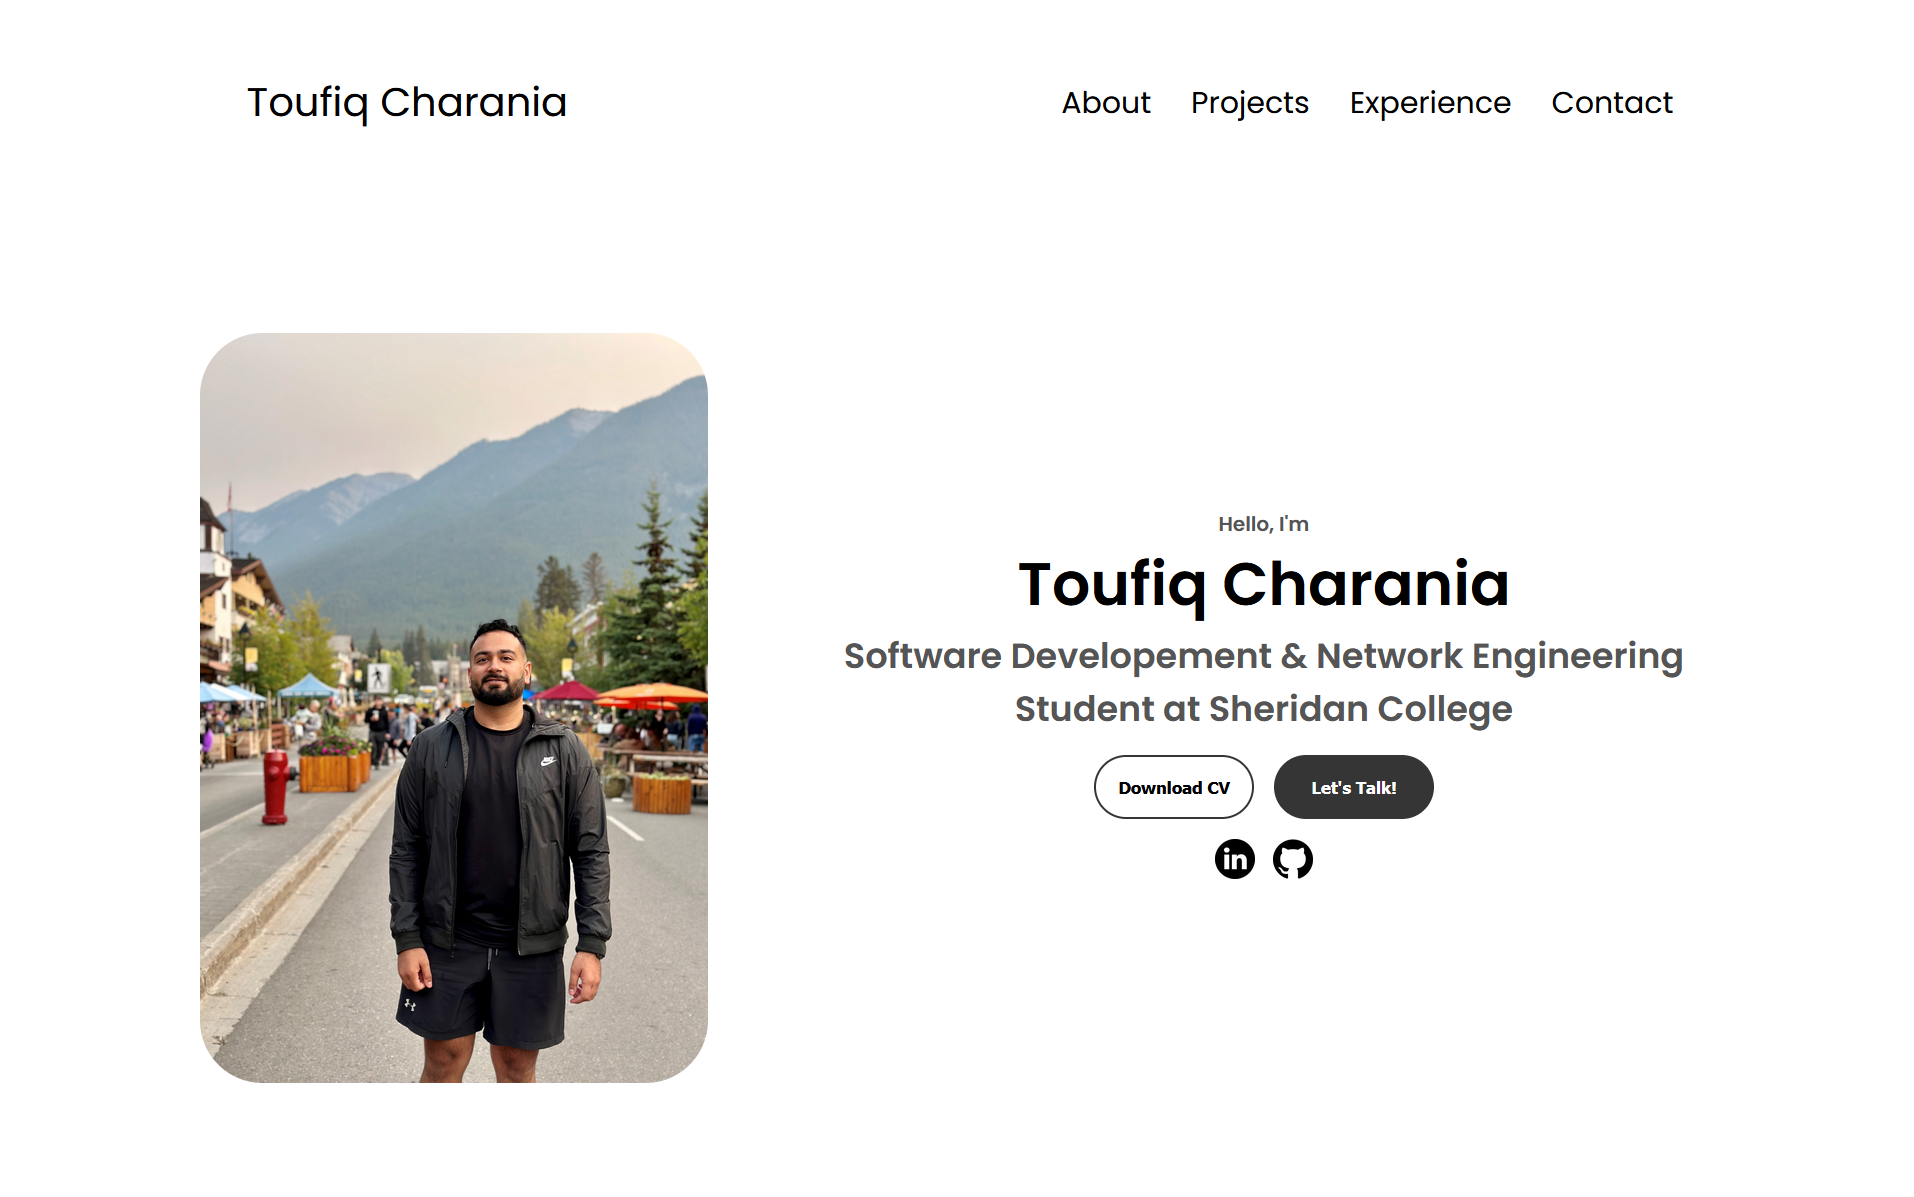
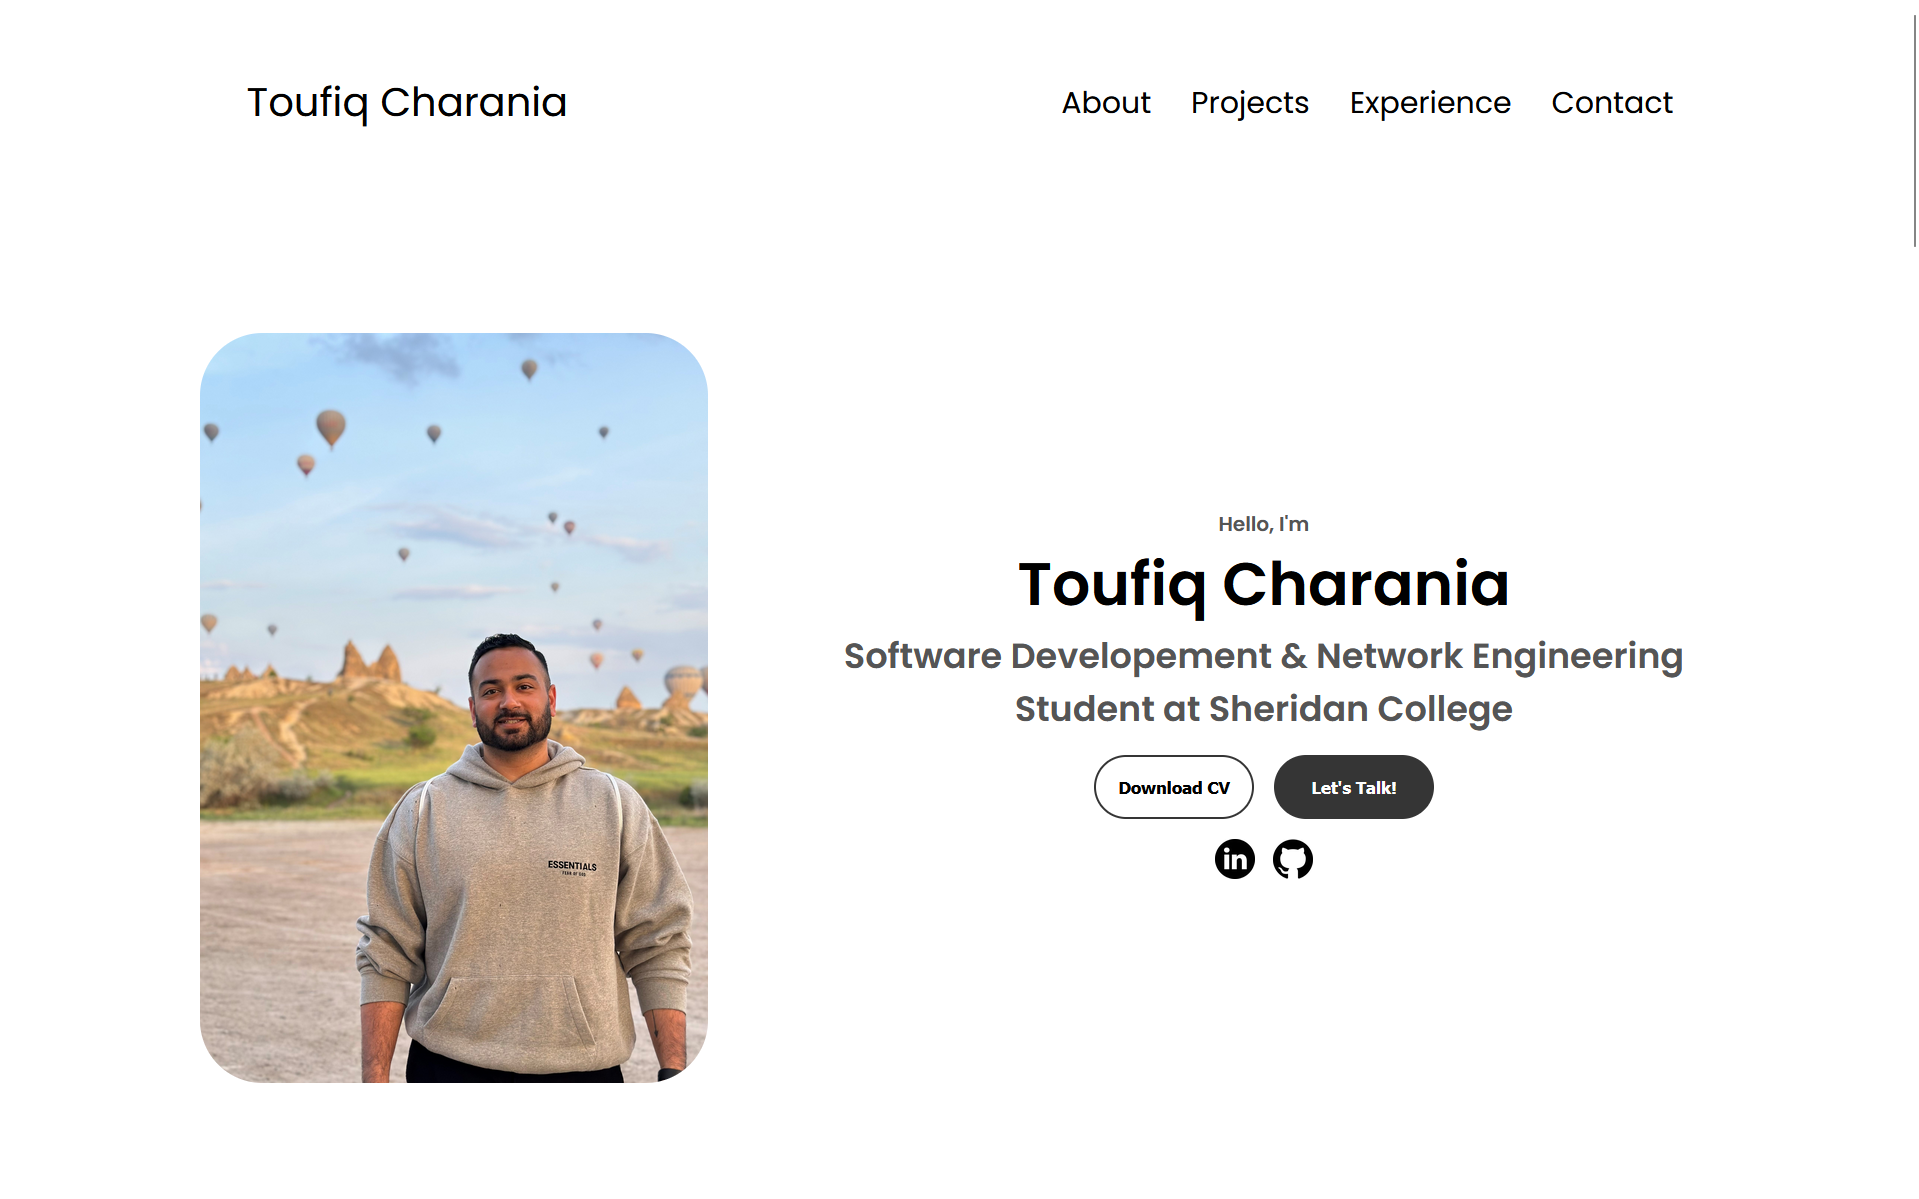
Completed Assignment 1.

diff --git a/src/app/projects/projects.component.html b/src/app/projects/projects.component.html
@@ -1,1 +1,69 @@
-<p>projects works!</p>
+<h3>Projects</h3>
+<!-- Placed material cards within a material tab group to achieve tabbed view for all five projects -->
+<mat-tab-group class="mat-tab-container">
+  <mat-tab label="Project 1" class="project-1">
+    <mat-card>
+      <mat-card-header>
+        <mat-card-subtitle>
+          <app-online-bookstore></app-online-bookstore>
+        </mat-card-subtitle>
+      </mat-card-header>
+      <mat-card-actions>
+        <button mat-button></button>
+      </mat-card-actions>
+      <mat-card-footer> </mat-card-footer>
+    </mat-card>
+  </mat-tab>
+  <mat-tab label="Project 2" class="project-2">
+    <mat-card>
+      <mat-card-header>
+        <mat-card-subtitle>
+          <app-portfolio-website></app-portfolio-website>
+        </mat-card-subtitle>
+      </mat-card-header>
+      <mat-card-actions>
+        <button mat-button></button>
+      </mat-card-actions>
+      <mat-card-footer> </mat-card-footer>
+    </mat-card>
+  </mat-tab>
+  <mat-tab label="Project 3" class="project-3">
+    <mat-card>
+      <mat-card-header>
+        <mat-card-subtitle>
+          <app-war-game></app-war-game>
+        </mat-card-subtitle>
+      </mat-card-header>
+      <mat-card-actions>
+        <button mat-button></button>
+      </mat-card-actions>
+      <mat-card-footer></mat-card-footer>
+    </mat-card>
+  </mat-tab>
+  <mat-tab label="Project 4" class="project-4">
+    <mat-card>
+      <mat-card-header>
+        <mat-card-subtitle>
+          <app-stock-portfolio></app-stock-portfolio>
+        </mat-card-subtitle>
+      </mat-card-header>
+      <mat-card-actions>
+        <button mat-button></button>
+      </mat-card-actions>
+      <mat-card-footer> </mat-card-footer>
+    </mat-card>
+    <mat-tab label="Project 5" class="project-5">
+      <mat-card>
+        <mat-card-header>
+          <mat-card-subtitle>
+            <app-todo-list></app-todo-list>
+          </mat-card-subtitle>
+        </mat-card-header>
+        <mat-card-actions>
+          <button mat-button></button>
+        </mat-card-actions>
+        <mat-card-footer></mat-card-footer>
+      </mat-card>
+    </mat-tab>
+  </mat-tab>
+</mat-tab-group>

diff --git a/src/styles.css b/src/styles.css
@@ -1,4 +1,85 @@
-/* You can add global styles to this file, and also import other style files */
+/* Global CSS */
 
-html, body { height: 100%; }
-body { margin: 0; font-family: Roboto, "Helvetica Neue", sans-serif; }
+html,
+body {
+  height: 100%;
+}
+
+body {
+  margin: 0;
+  font-family: Quicksand, "Helvetica Neue", sans-serif;
+}
+
+h1 {
+  font-size: 40px;
+  font-weight: 500;
+  text-align: center;
+  margin: 20px;
+  padding: 20px;
+}
+
+h2 {
+  font-size: 30px;
+  font-weight: 400;
+  text-align: center;
+}
+
+h3 {
+  font-size: 30px;
+  font-weight: 300;
+  text-align: center;
+}
+
+p {
+  font-size: 20px;
+  font-weight: 300;
+  text-align: center;
+}
+
+/* Header CSS */
+
+.header {
+  background-color: rgba(48, 37, 171, 0.5);
+  color: white;
+  text-align: center;
+  padding: 20px;
+}
+
+/* About Me CSS */
+
+.about-me-container {
+  /* Added margin to achieve separation between content. */
+  margin: 50px 50px;
+}
+
+/* Targetting the image inside the about-me-container to centre it. Reference: W3 Schools (https://www.w3schools.com/cssref/css3_pr_align-content.php) */
+.about-me-container img {
+  /* Changed img to block for it to take up the entire width of the page. */
+  display: block;
+  /* Margin auto places a margin on the left and right sides of the image. */
+  margin: auto;
+  /* Border radius achieves a circular image instead of a square. */
+  border-radius: 50%;
+}
+
+/* Projects CSS */
+
+.mat-tab-container {
+  /* Aligned items in the centre to prevent tabs from spanning full width of page. */
+  align-items: center;
+}
+
+/* Contact CSS */
+
+.contact-container {
+  background-color: rgba(193, 70, 178, 0.5);
+  text-align: center;
+  padding: 50px;
+}
+
+/* Footer CSS */
+
+.footer-container {
+  text-align: right;
+  margin-right: 10px;
+}

diff --git a/src/app/app.component.html b/src/app/app.component.html
@@ -1,47 +1,8 @@
-<link
-  href="https://fonts.googleapis.com/icon?family=Material+Icons"
-  rel="stylesheet"
-/>
-
+<!-- Components and mat-card added to app.component.html so that they get displayed on the webpage -->
 <app-header></app-header>
 <app-about></app-about>
-<mat-tab-group
-  mat-stretch-tabs
-  class="example-stretched-tabs mat-elevation-z4"
-  [ngStyle]="{ textAlign: 'center' }"
->
-  <app-projects>
-    <mat-tab label="online-bookstore">
-      <ng-template mat-tab-label="online-bookstore">
-        <span>Online Bookstore</span>
-      </ng-template>
-      <app-online-bookstore></app-online-bookstore>
-    </mat-tab>
-    <mat-tab label="portfolio-website">
-      <ng-template mat-tab-label="portfolio-website">
-        <span>Portfolio Website</span>
-      </ng-template>
-      <app-portfolio-website></app-portfolio-website>
-    </mat-tab>
-    <mat-tab label="war-game">
-      <ng-template mat-tab-label="war-game">
-        <span>War Game</span>
-      </ng-template>
-      <app-war-game></app-war-game>
-    </mat-tab>
-    <mat-tab label="stock-portfolio">
-      <ng-template mat-tab-label="stock-portfolio">
-        <span>Stock Portfolio</span>
-      </ng-template>
-      <app-stock-portfolio></app-stock-portfolio>
-    </mat-tab>
-    <mat-tab label="todo-list">
-      <ng-template mat-tab-label="todo-list">
-        <span>To-Do List</span>
-      </ng-template>
-      <app-todo-list></app-todo-list>
-    </mat-tab>
-  </app-projects>
-</mat-tab-group>
+<app-projects>
+  <mat-card></mat-card>
+</app-projects>
 <app-contact></app-contact>
 <app-footer></app-footer>

diff --git a/src/index.html b/src/index.html
@@ -1,16 +1,27 @@
-<!doctype html>
+<!DOCTYPE html>
 <html lang="en">
-<head>
-  <meta charset="utf-8">
-  <title>Assignment1</title>
-  <base href="/">
-  <meta name="viewport" content="width=device-width, initial-scale=1">
-  <link rel="icon" type="image/x-icon" href="favicon.ico">
-  <link rel="preconnect" href="https://fonts.gstatic.com">
-  <link href="https://fonts.googleapis.com/css2?family=Roboto:wght@300;400;500&display=swap" rel="stylesheet">
-  <link href="https://fonts.googleapis.com/icon?family=Material+Icons" rel="stylesheet">
-</head>
-<body>
-  <app-root></app-root>
-</body>
+  <head>
+    <meta charset="utf-8" />
+    <title>Assignment1</title>
+    <base href="/" />
+    <meta name="viewport" content="width=device-width, initial-scale=1" />
+    <link rel="icon" type="image/x-icon" href="favicon.ico" />
+    <link rel="preconnect" href="https://fonts.googleapis.com" />
+    <link rel="preconnect" href="https://fonts.gstatic.com" crossorigin />
+    <link
+      href="https://fonts.googleapis.com/css2?family=Quicksand:wght@300..700&display=swap"
+      rel="stylesheet"
+    />
+    <link
+      href="https://fonts.googleapis.com/icon?family=Material+Icons"
+      rel="stylesheet"
+    />
+    <link
+      href="https://fonts.googleapis.com/icon?family=Material+Icons"
+      rel="stylesheet"
+    />
+  </head>
+  <body>
+    <app-root></app-root>
+  </body>
 </html>

diff --git a/src/app/projects/portfolio-website/portfolio-website.component.html b/src/app/projects/portfolio-website/portfolio-website.component.html
@@ -1,8 +1,11 @@
-<h3>Portfolio Website</h3>
-<p>A website to showcase my projects.</p>
-<p>Technologies Used:</p>
-<img
-  src="assets/images/portfolio-website.png"
-  width="500"
-  alt="Screenshot of Toufiq's portfolio website"
-/>
+<!-- Moved portfolio-website elements into a div to create a container to style the portfolio-website component separately -->
+<div class="portfolio-website">
+  <h3><a href="https://toufiqcharania.netlify.app/">Portfolio Website</a></h3>
+  <p>A website to showcase my projects.</p>
+  <p>Technologies Used: HTML, CSS, JavaScript</p>
+  <img
+    src="assets/images/portfolio-website.png"
+    width="700"
+    alt="Screenshot of Toufiq's portfolio website"
+  />
+</div>

diff --git a/src/app/about/about.component.html b/src/app/about/about.component.html
@@ -1,1 +1,16 @@
-<p>My name is Toufiq, and I am a second-year SNDE student at Sheridan College. I am excited to be learning about Angular, especially after learning React.js at my previous co-op!</p>
+<!-- Moved about paragraph elements into a div to create a container to style the About component separately -->
+<div class="about-me-container">
+  <h3>About Me:</h3>
+  <p>
+    My name is Toufiq, and I am a second-year SNDE student at Sheridan College.
+  </p>
+  <p>
+    I am excited to be learning about Angular, especially after learning
+    React.js at my previous co-op!
+  </p>
+  <img
+    src="assets/images/photo-2.jpg"
+    width="400"
+    alt="Profile picture of Toufiq"
+  />
+</div>

diff --git a/src/app/contact/contact.component.html b/src/app/contact/contact.component.html
@@ -1,3 +1,6 @@
-<h3>Connect With Me!</h3>
-<div><a href="https://github.com/fixture121">GitHub</a></div>
-<div><a href="https://www.linkedin.com/in/toufiqcharania/">LinkedIn</a></div>
+<!-- Moved Contact elements into a div to create a container to style the Contact component separately -->
+<div class="contact-container">
+  <h3>Connect With Me!</h3>
+  <div><a href="https://github.com/fixture121">GitHub</a></div>
+  <div><a href="https://www.linkedin.com/in/toufiqcharania/">LinkedIn</a></div>
+</div>

diff --git a/src/app/projects/todo-list/todo-list.component.html b/src/app/projects/todo-list/todo-list.component.html
@@ -1,3 +1,7 @@
 <h3>To-Do List</h3>
-<p>A simple to-do list where users can add tasks to their list, check-off completed tasks, and delete tasks from the list. List remains persistent by saving to local storage.</p>
+<p>
+  A simple to-do list where users can add tasks to their list, check-off
+  completed tasks, and delete tasks from the list. List remains persistent by
+  saving to local storage.
+</p>
 <p>Technologies Used: React.js, CSS</p>

diff --git a/src/app/header/header.component.html b/src/app/header/header.component.html
@@ -1,4 +1,7 @@
-<h1>Assignment 1 / By: {{sname}}</h1>
-<h2>Student</h2>
-<h3>YOLO</h3>
-<span class="material-icons">ICON</span>
+<!-- Moved Header elements into a div to create a container to style the Header component separately -->
+<div class="header">
+  <!-- sname gets read from header.component.ts -->
+  <h1>Assignment 1 / By: {{ sname }}</h1>
+  <h2>Role: Student</h2>
+  <h3>Motto: YOLO, You Only Live Once</h3>
+</div>

diff --git a/src/app/header/header.component.ts b/src/app/header/header.component.ts
@@ -3,8 +3,10 @@ import { Component } from '@angular/core';
 @Component({
   selector: 'app-header',
   templateUrl: './header.component.html',
-  styleUrls: ['./header.component.css']
+  styleUrls: ['./header.component.css'],
 })
+
+// sname gets read by header.component.html and uses the name entered in this component to display it
 export class HeaderComponent {
-  sname = 'Toufiq Charania'
+  sname = 'Toufiq Charania';
 }

diff --git a/src/app/projects/portfolio-website/portfolio-website.component.ts b/src/app/projects/portfolio-website/portfolio-website.component.ts
@@ -3,8 +3,6 @@ import { Component } from '@angular/core';
 @Component({
   selector: 'app-portfolio-website',
   templateUrl: './portfolio-website.component.html',
-  styleUrls: ['./portfolio-website.component.css']
+  styleUrls: ['./portfolio-website.component.css'],
 })
-export class PortfolioWebsiteComponent {
-
-}
+export class PortfolioWebsiteComponent {}

diff --git a/src/app/projects/online-bookstore/online-bookstore.component.ts b/src/app/projects/online-bookstore/online-bookstore.component.ts
@@ -3,8 +3,6 @@ import { Component } from '@angular/core';
 @Component({
   selector: 'app-online-bookstore',
   templateUrl: './online-bookstore.component.html',
-  styleUrls: ['./online-bookstore.component.css']
+  styleUrls: ['./online-bookstore.component.css'],
 })
-export class OnlineBookstoreComponent {
-
-}
+export class OnlineBookstoreComponent {}
